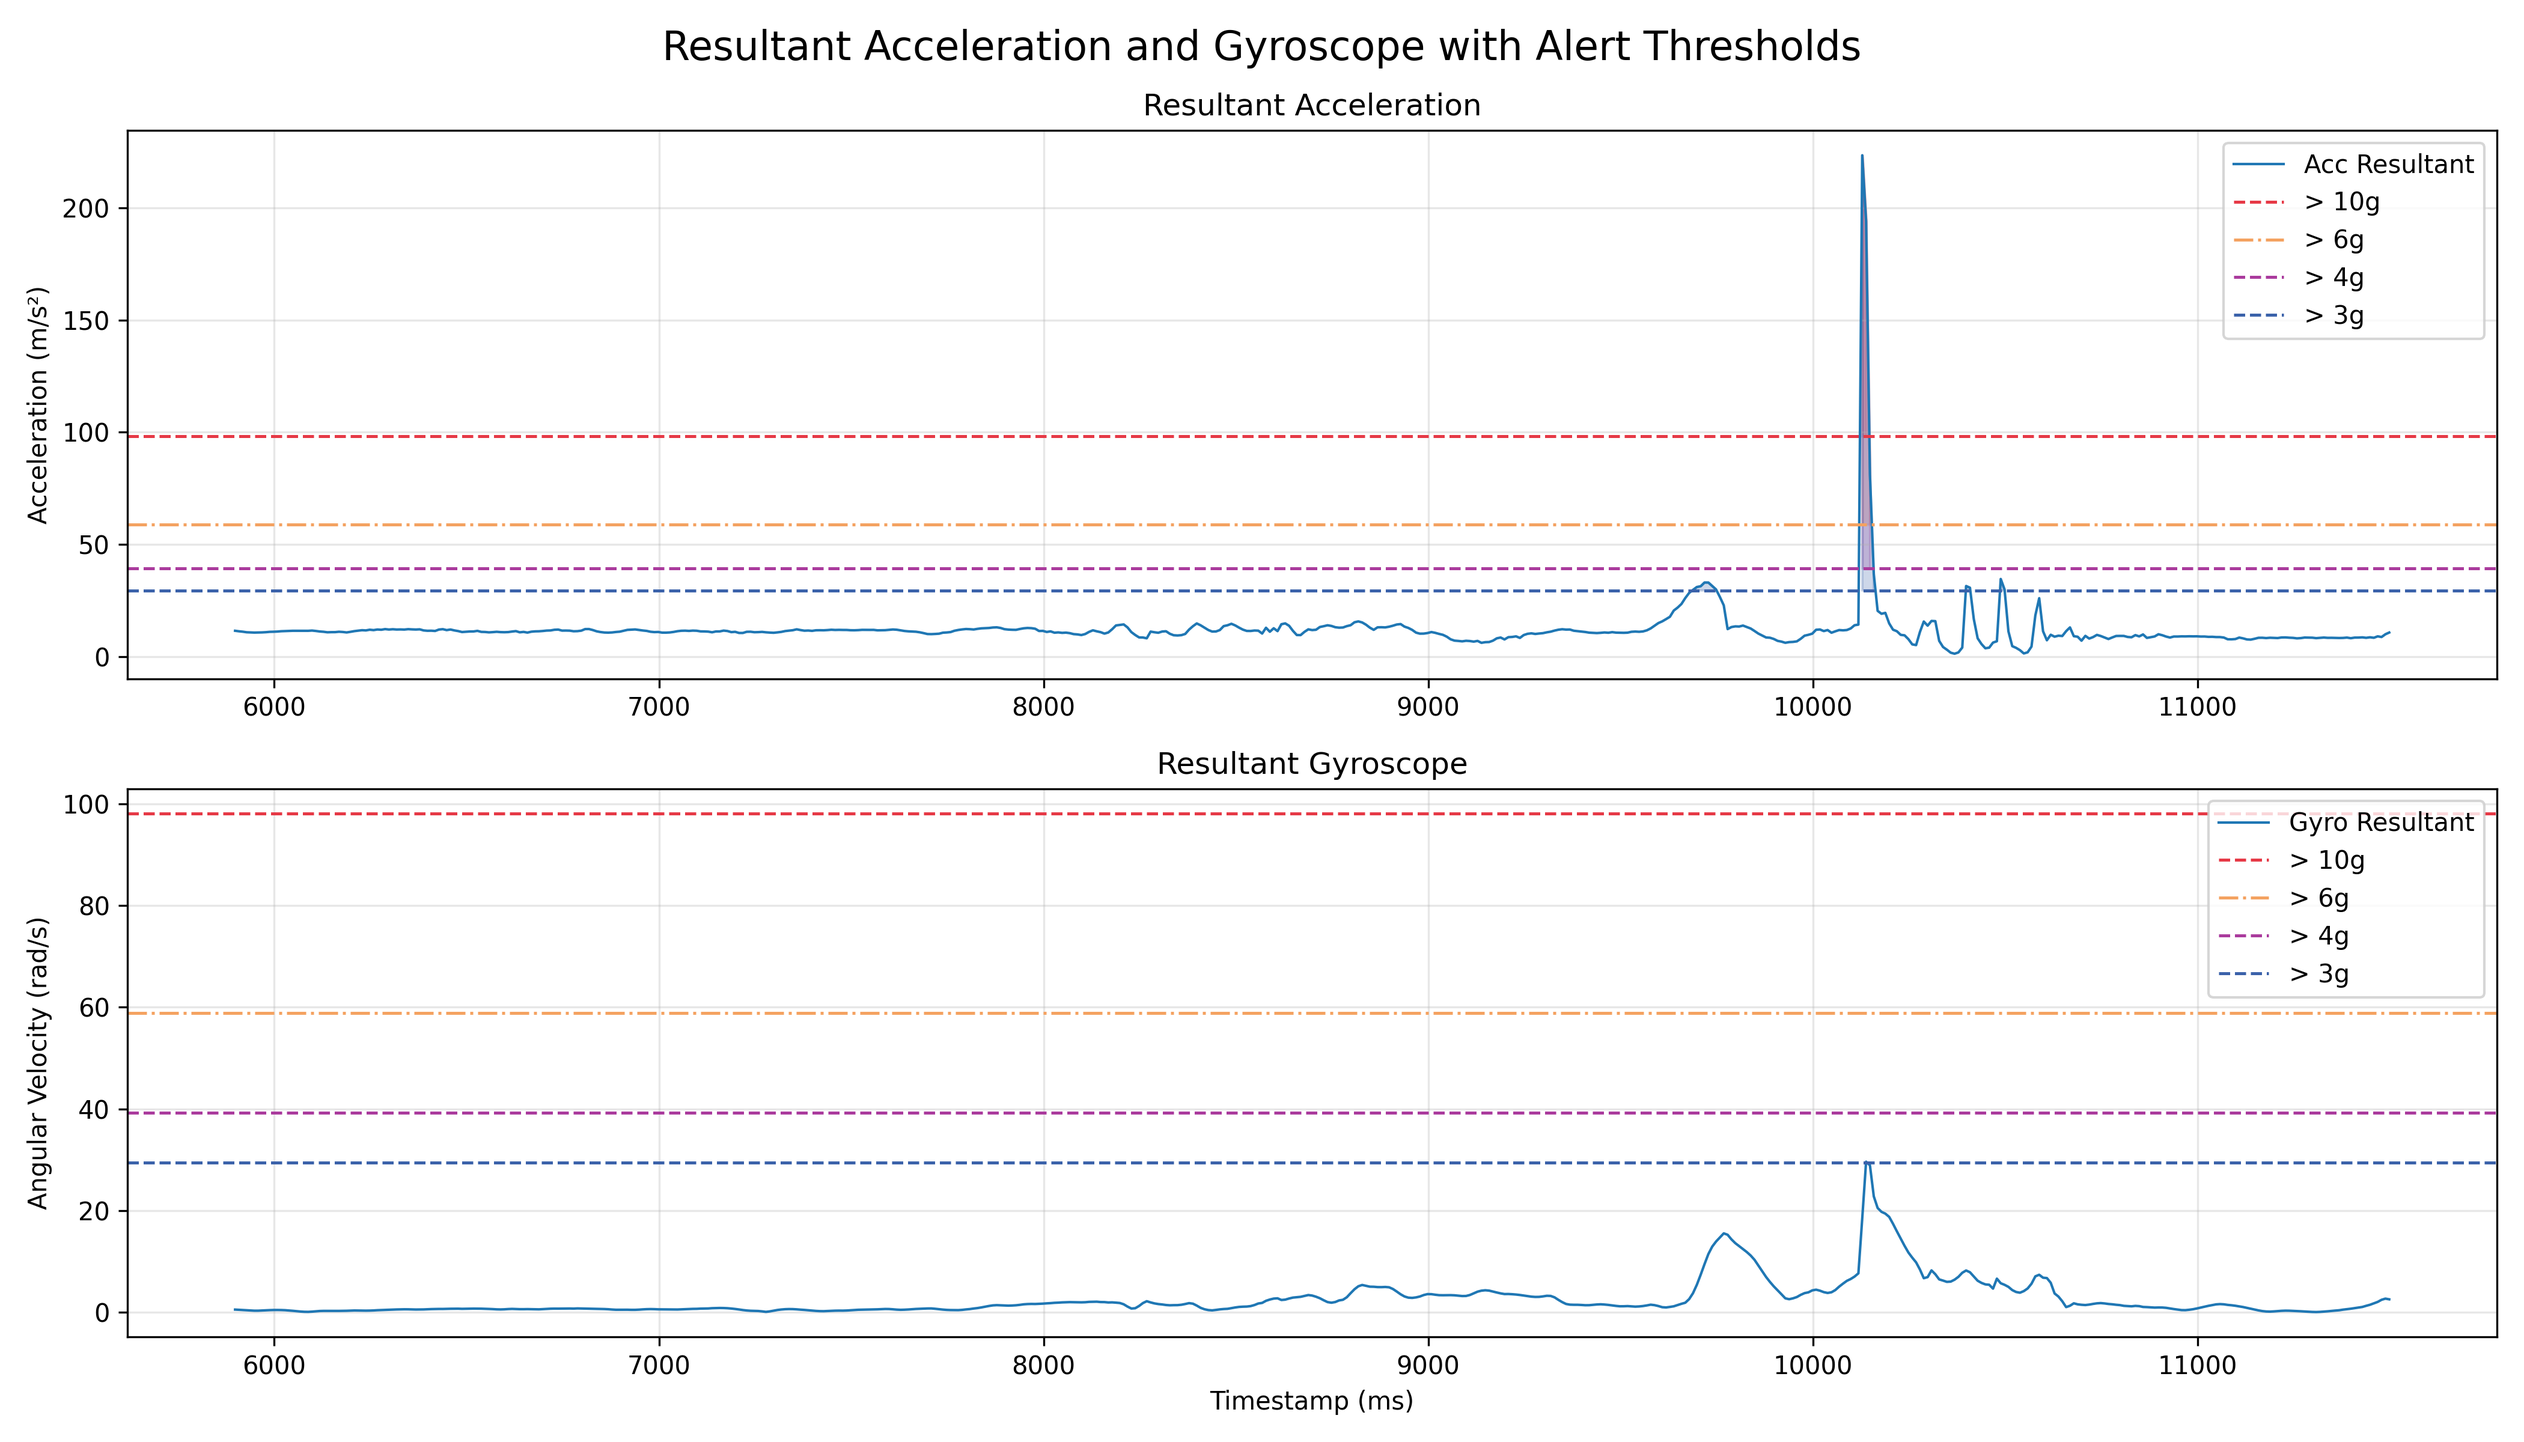
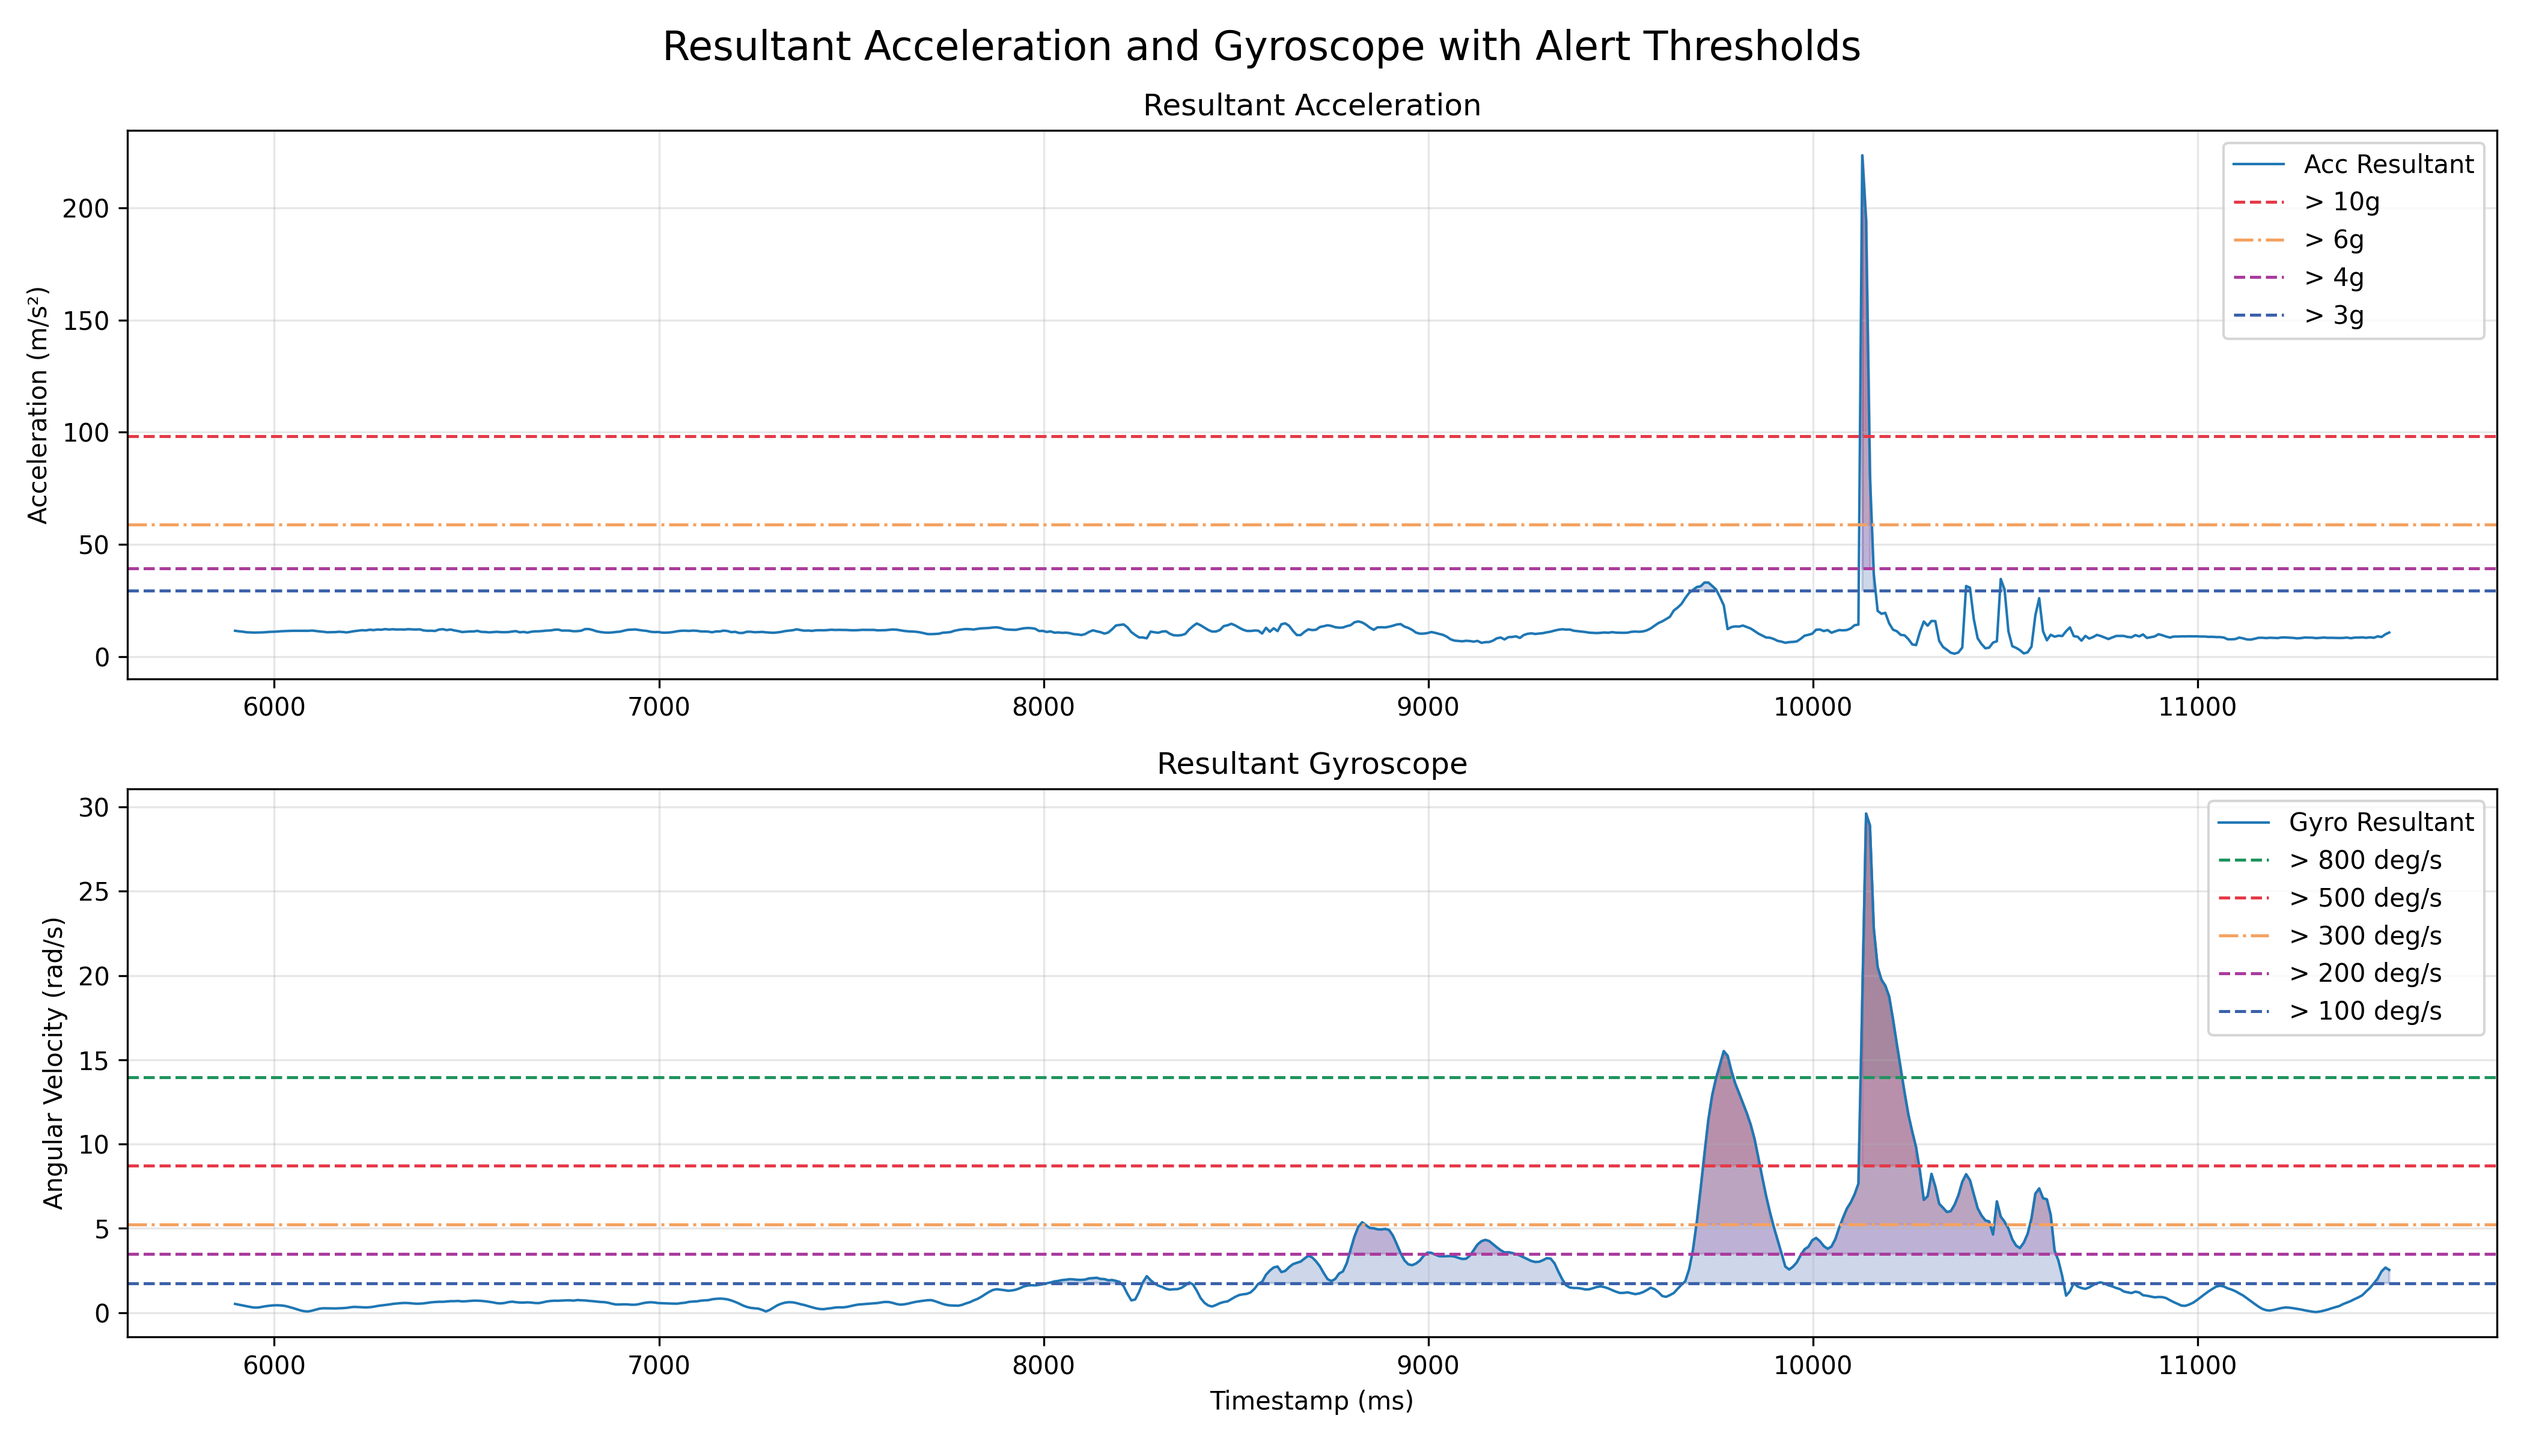
fixed bug where gyro plots were using acc levels

diff --git a/python/threshold_check.py b/python/threshold_check.py
@@ -18,11 +18,19 @@ if not os.path.exists(SUMMARY_DIR):
 if not os.path.exists(RESULTANT_PLOTS_DIR):
     os.makedirs(RESULTANT_PLOTS_DIR, exist_ok=True)
 
-ALERT_THRESHOLDS = [
+ACCELERATION_ALERT_LEVELS = [
     {"label": "> 10g",  "value": 10 * G, "color": "#e63946", "alpha": 0.25, "linestyle": "--"},
     {"label": "> 6g",   "value":  6 * G, "color": "#f4a261", "alpha": 0.25, "linestyle": "-."},
     {"label": "> 4g",  "value":  4 * G, "color": "#aa3b9d", "alpha": 0.25, "linestyle": "--"},
     {"label": "> 3g",  "value":  3 * G, "color": "#3b62aa", "alpha": 0.25, "linestyle": "--"}
+]
+
+GYRO_ALERT_LEVELS = [
+    {"label": "> 800 deg/s", "value": np.deg2rad(800), "color": "#1F945F", "alpha": 0.25, "linestyle": "--"},
+    {"label": "> 500 deg/s", "value": np.deg2rad(500), "color": "#e63946", "alpha": 0.25, "linestyle": "--"},
+    {"label": "> 300 deg/s", "value": np.deg2rad(300), "color": "#f4a261", "alpha": 0.25, "linestyle": "-."},
+    {"label": "> 200 deg/s", "value": np.deg2rad(200), "color": "#aa3b9d", "alpha": 0.25, "linestyle": "--"},
+    {"label": "> 100 deg/s", "value": np.deg2rad(100), "color": "#3b62aa", "alpha": 0.25, "linestyle": "--"}
 ]
 
 # --- HELPERS ---
@@ -53,7 +61,7 @@ def plot_with_alerts_thresholds(df, plot_basename):
 
     # --- acceleration plot --- 
     ax1.plot(ts, acc, linewidth=1, label='Acc Resultant')
-    for thr in ALERT_THRESHOLDS:
+    for thr in ACCELERATION_ALERT_LEVELS:
         ax1.axhline(thr['value'], color=thr['color'], linestyle=thr['linestyle'],
                     linewidth=1.2, label=thr['label'])
         ax1.fill_between(ts, thr['value'], acc,
@@ -66,7 +74,7 @@ def plot_with_alerts_thresholds(df, plot_basename):
 
     # --- gyroscope plot ---
     ax2.plot(ts, gyro, linewidth=1, label='Gyro Resultant')
-    for thr in ALERT_THRESHOLDS:
+    for thr in GYRO_ALERT_LEVELS:
         ax2.axhline(thr['value'], color=thr['color'], linestyle=thr['linestyle'],
                     linewidth=1.2, label=thr['label'])
         ax2.fill_between(ts, thr['value'], gyro,
@@ -95,10 +103,14 @@ def print_alert_summary(df, file_basename):
     lines.append(f"Alert Summary")
     lines.append("=" * 60)
 
-    for thr in ALERT_THRESHOLDS: 
+    for thr in ACCELERATION_ALERT_LEVELS:
         acc_alerts = np.sum(acc > thr['value'])
+        lines.append(f"  {thr['label']}: {acc_alerts} samples")
+
+    lines.append("\nGyroscope:")
+    for thr in GYRO_ALERT_LEVELS:
         gyro_alerts = np.sum(gyro > thr['value'])
-        lines.append(f"{thr['label']}: {acc_alerts} acc alerts, {gyro_alerts} gyro alerts")
+        lines.append(f"  {thr['label']}: {gyro_alerts} samples")
 
     out_path = os.path.join(SUMMARY_DIR,
                             file_basename.replace('.csv', '_summary.txt')) 
